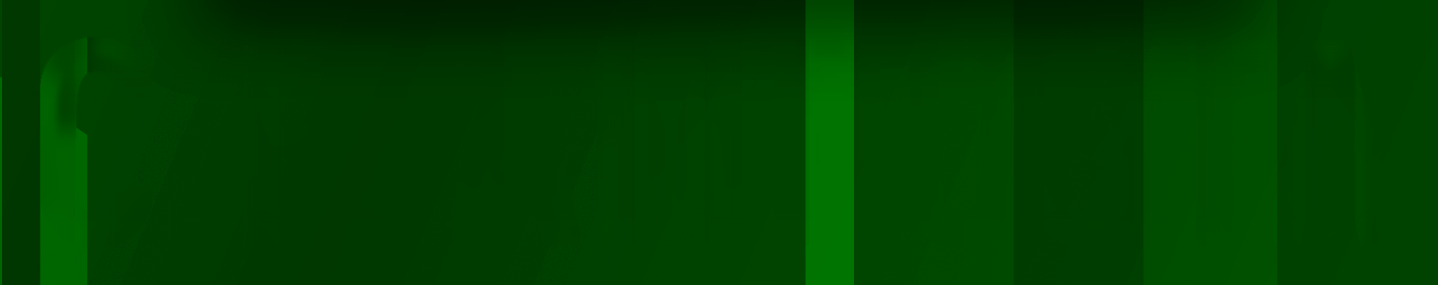
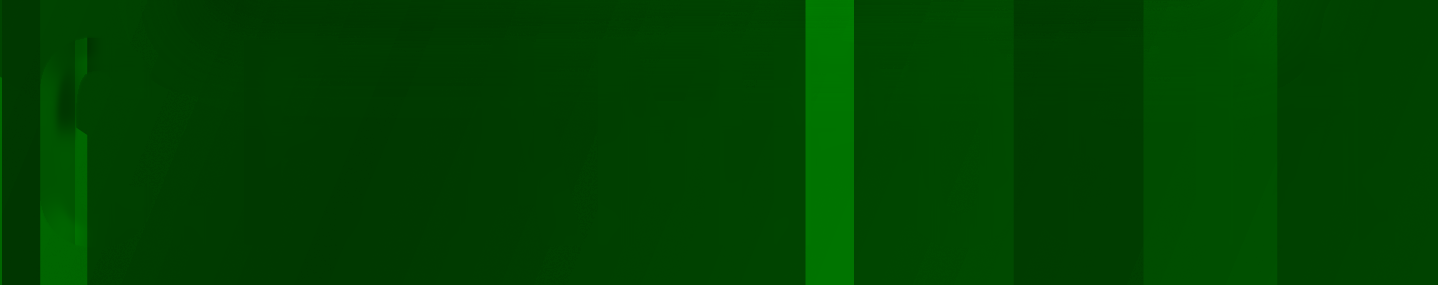
Cartas: sin la sombra del jugador de ejemplo bajo la línea dorada y sombra más suave
- La plantilla traía bajo la línea la sombra del jugador de ejemplo (un rectángulo
  oscuro y difuminado): se mide y se quita al preparar la plantilla y sus colores.
- Sombra del jugador un 20 % menos opaca (fuerza 0,33).
- Nombres de L'Ametlla de Mar, Jesús i Maria y La Cava como en sus escudos.

Changed region(s): [[0.2142, 0.0, 0.8873, 0.1965]]

diff --git a/publifoto/herramientas/preparar_carta.py b/publifoto/herramientas/preparar_carta.py
@@ -28,7 +28,7 @@ SOMBRA_MAX = 120   # px
 # sombra del jugador como la de Photoshop: la silueta crecida (px) y difuminada (sigma, px),
 # oscureciendo el fondo hasta «fuerza». Comparada con la carta aprobada de Amposta (S11 B),
 # un poco más suave a petición del usuario.
-SOMBRA = {"crece": 25, "difumina": 30, "fuerza": 0.42}
+SOMBRA = {"crece": 25, "difumina": 30, "fuerza": 0.33}
 # letra del nombre del club cuando se cambia: la del diseño (DIN Pro Condensed Bold) si está
 # en el ordenador; si no, Bebas Neue (libre, va con el programa)
 FUENTES_CLUB = ["DINPro-CondensedBold.otf", "DINPro-CondBold.otf", "BebasNeue-Regular.ttf"]
@@ -161,6 +161,85 @@ def _rellenar(img, mask, caja):
     pred = np.clip(pred + num / np.maximum(den, 1e-2), 0, 255)
     suave = np.maximum(cv2.GaussianBlur(m.astype(np.float32), (0, 0), 1.5), m)[..., None]
     return np.clip(pred * suave + z * (1 - suave), 0, 255)
+
+
+def _erf(x):
+    # Abramowitz y Stegun 7.1.26 (error < 1,5e-7): sin depender de scipy
+    t = 1 / (1 + 0.3275911 * np.abs(x))
+    y = 1 - (((((1.061405429 * t - 1.453152027) * t) + 1.421413741) * t - 0.284496736) * t + 0.254829592) * t \
+        * np.exp(-x * x)
+    return np.sign(x) * y
+
+
+def _sombra_bajo_linea(fondo, linea_capa, texto_alfa):
+    """Bajo la línea dorada la plantilla trae la sombra del jugador de ejemplo (un
+    rectángulo oscuro y difuminado, en el centro). El jugador tiene que salir de la línea
+    sin sombra debajo: se mide esa sombra (rectángulo difuminado ajustado a lo que oscurece
+    respecto al recuadro del nombre más abajo, donde no llega) y se quita. Las letras del
+    nombre van por encima de la sombra y no se tocan. Cambia fondo y devuelve cuánto
+    oscurecía (0 si no había)."""
+    ys, xs = np.nonzero(linea_capa[:, :, 3] > 0.5)
+    if not len(ys):
+        return 0.0
+    y0, x0, x1 = int(ys.max()) + 4, int(xs.min()), int(xs.max()) + 1
+    ty = np.nonzero(texto_alfa.max(1) > 0.5)[0] if texto_alfa is not None else []
+    ref0 = int(ty.max()) + 12 if len(ty) else y0 + 320       # bajo el nombre: sin sombra
+    y1 = min(ref0 - 10, y0 + 300)
+    Z = fondo[y0:y1, x0:x1]
+    ref = fondo[ref0:ref0 + 30, x0:x1].mean(0)
+    r = Z.mean(2) / np.maximum(ref.mean(1)[None], 1)
+    letras = texto_alfa[y0:y1, x0:x1] > 0.02 if texto_alfa is not None else np.zeros(r.shape, bool)
+    ok = (r < 1.15) & (r > 0.3) & ~letras
+    yy, xx = np.mgrid[0:y1 - y0, 0:x1 - x0].astype(np.float64)
+
+    def modelo(q, X, Y):
+        A, xa, xb, sx, yb, sy = q
+        return 1 - A * 0.5 * (_erf((X - xa) / sx) - _erf((X - xb) / sx)) * 0.5 * (1 - _erf((Y - yb) / sy))
+    # ajuste (Levenberg-Marquardt) en una de cada 4 filas y columnas
+    X, Y, R, K = (v[::4, ::4].ravel() for v in (xx, yy, r, ok))
+    X, Y, R = X[K], Y[K], R[K]
+    w = x1 - x0
+    q = np.array([0.4, 0.3 * w, 0.7 * w, 30.0, 60.0, 30.0])
+    lam = 1e-2
+    err = np.sum((modelo(q, X, Y) - R) ** 2)
+    for _ in range(80):
+        J = np.empty((len(R), 6))
+        for i in range(6):
+            d = np.zeros(6)
+            d[i] = 1e-4 * max(1.0, abs(q[i]))
+            J[:, i] = (modelo(q + d, X, Y) - modelo(q - d, X, Y)) / (2 * d[i])
+        g = J.T @ (modelo(q, X, Y) - R)
+        H = J.T @ J
+        paso = -np.linalg.solve(H + lam * np.diag(np.diag(H) + 1e-9), g)
+        nuevo = q + paso
+        nuevo[3], nuevo[5] = max(nuevo[3], 2), max(nuevo[5], 2)
+        e2 = np.sum((modelo(nuevo, X, Y) - R) ** 2)
+        if e2 < err:
+            q, err, lam = nuevo, e2, lam * 0.3
+        else:
+            lam *= 5
+    A = float(q[0])
+    if A < 0.05 or q[1] >= q[2]:
+        return 0.0
+    Sm = modelo(q, xx, yy).astype(np.float32)
+    peso = np.clip((1 - Sm) / A, 0, 1)
+    c1 = Z / np.maximum(Sm, 0.2)[..., None]
+    # lo que queda, por canal y suave, solo donde había sombra
+    # (en los fondos rojos o verdes algún canal es casi 0: ahí no se corrige más)
+    valido = (ref >= 8)[None]
+    r2 = np.where(valido, c1 / np.maximum(ref[None], 1), 1).astype(np.float32)
+    k = (ok & (peso > 0.02)).astype(np.float32)
+    lejos = ok & (peso < 0.02)
+    base = np.array([np.median(r2[..., c][lejos]) if lejos.any() else 1.0 for c in range(3)], np.float32)
+    base = np.where(np.isfinite(base) & (base > 0.05), base, 1).astype(np.float32)
+    num = cv2.GaussianBlur(r2 * k[..., None], (0, 0), 20)
+    den = cv2.GaussianBlur(k, (0, 0), 20)[..., None]
+    resto = np.where(den > 0.05, num / np.maximum(den, 1e-3), base) / base
+    resto = np.where(valido, np.clip(resto, 0.5, 2), 1)
+    c2 = c1 / (1 + (resto - 1) * peso[..., None])
+    a = texto_alfa[y0:y1, x0:x1, None] if texto_alfa is not None else 0
+    fondo[y0:y1, x0:x1] = np.clip(c2, 0, 255) * (1 - a) + Z * a
+    return A
 
 
 def _club(capas, final, fondo, W, H):
@@ -328,6 +407,14 @@ def _construir(ruta_tif, aprobada=None):
     ea = encima[:, :, 3:4]
     sin = np.where(rehacer[..., None], encima[:, :, :3] * ea + sin * (1 - ea), sin)
 
+    texto = next((c for c in capas if c["nombre"] == "TEXT CLUB" and "imagen" in c), None)
+    texto_alfa = None
+    if texto is not None:
+        l, t, r, b = texto["caja"]
+        texto_alfa = np.zeros((H, W), np.float32)
+        texto_alfa[t:b, l:r] = np.asarray(texto["imagen"])[:, :, 3] / 255
+    quitada = _sombra_bajo_linea(sin, linea_capa, texto_alfa)
+    print("sombra del ejemplo bajo la línea: oscurecía", round(quitada, 2))
     club, vacios = _club(capas, final, sin, W, H)
     return dict(W=W, H=H, fondo=sin, mascara=mascara, linea_capa=linea_capa, lut=lut, linea=linea,
                 lista_encima=lista_encima, club=club, vacios=vacios)
